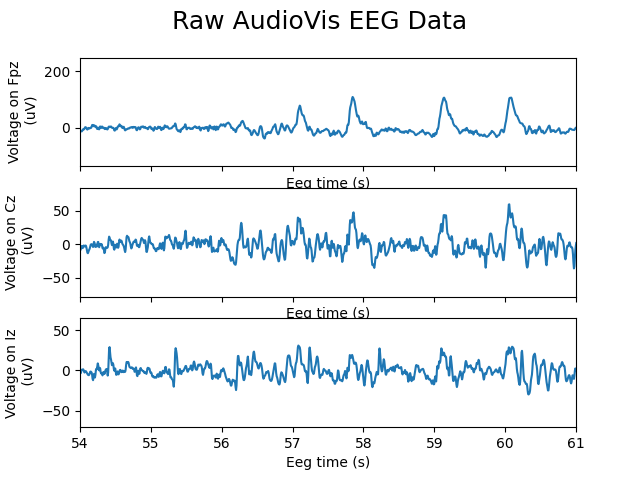
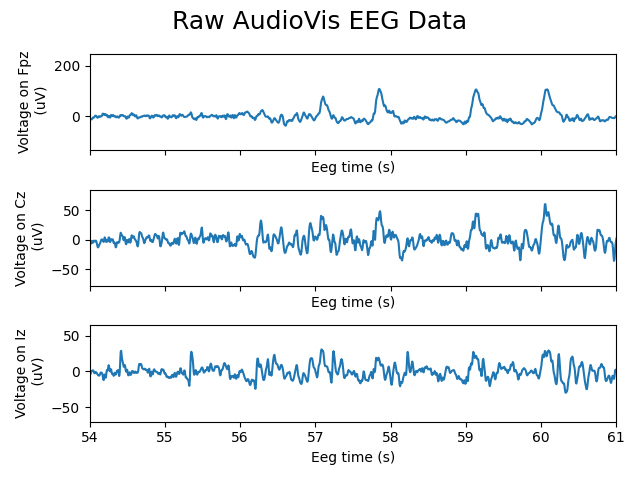
Fixing plots and part3

diff --git a/remove_audvis_blinks.py b/remove_audvis_blinks.py
@@ -67,7 +67,7 @@ def load_data(data_directory, channels_to_plot=None):
             axs[channel_index].set_ylabel(f'Voltage on {channel_name}\n ({units})')
             axs[channel_index].set_xlim(54,61)
     
-        # plt.tight_layout()  
+        plt.tight_layout()  
         plt.savefig(f"plots/Raw_AudioVis.png")  
     
     return data_dict
@@ -75,7 +75,7 @@ def load_data(data_directory, channels_to_plot=None):
 def plot_components(mixing_matrix, channels, components_to_plot):
     
     plot_count = len(components_to_plot)
-    
+    plt.figure(figsize=(15, 8))
     for component_index, component_value in enumerate(components_to_plot):
         
         if plot_count <= 5:
@@ -83,15 +83,19 @@ def plot_components(mixing_matrix, channels, components_to_plot):
             my_component = mixing_matrix[:,component_value]
             img, cbar = plot_topo.plot_topo(channel_names=channels, channel_data=my_component,
                                 title=f'ICA component {component_index}', cbar_label='', montage_name='standard_1005')
-            plt.savefig(f"plots/scalp_figures/{component_index}_scalp.png")
+            # plt.savefig(f"plots/scalp_figures/{component_index}_scalp.png")
             
         if plot_count <= 10:
             
             subplot(2, 5, component_index+1)
             my_component=mixing_matrix[:,component_value]
             plot_topo.plot_topo(channel_names=list(channels), channel_data=my_component, title=f'ICA component {component_index}',cbar_label='', montage_name='standard_1005')
-            plt.savefig(f"plots/scalp_figures/{component_index}_scalp.png")
-            
+            # plt.savefig(f"plots/scalp_figures/{component_index}_scalp.png")
+    
+    plt.tight_layout()
+    plt.savefig(f"plots/components_scalp.png")
+    plt.close()
+    
 # Part 3
 def get_sources(eeg, unmixing_data, fs, sources_to_plot):
     
@@ -111,7 +115,8 @@ def get_sources(eeg, unmixing_data, fs, sources_to_plot):
             axs[channel_index].set_xlim(54, 61)
     
         plt.tight_layout()    
-        plt.savefig(f"plots/test.png")
+        plt.savefig(f"plots/AudioVis_EEG_Data_Source_Space.png")
+        plt.close()
         
     return source_activity
         

diff --git a/plot_topo.py b/plot_topo.py
@@ -69,7 +69,7 @@ def plot_topo(channel_names=[], channel_data=[],title='',cbar_label='Voltage (uV
     plt.cla()
     
     # Plot topomap on current axes
-    im,_ = mne.viz.plot_topomap(fake_evoked.data[:, 0], fake_evoked.info, show=False, size=6)
+    im,_ = mne.viz.plot_topomap(fake_evoked.data[:, 0], fake_evoked.info, show=False, axes=plt.gca(), size=20)
     # Annotate plot
     
     plt.title(title)

diff --git a/test_remove_audvis_blinks.py b/test_remove_audvis_blinks.py
@@ -44,7 +44,7 @@ components_to_plot = [0,1,2,3,4,5,6,7,8,29]
 
 # something is not righ in the lab5 instructions. assuming for now that mixing_matrix argument
 # is in fact eeg raw data 
-# rmv.plot_components(mixing_matrix,channels,components_to_plot) 
+rmv.plot_components(mixing_matrix,channels,components_to_plot) 
 
 # Part 3 - Source Activity
 rmv.get_sources(eeg, unmixing_matrix, fs, channels_to_plot)
